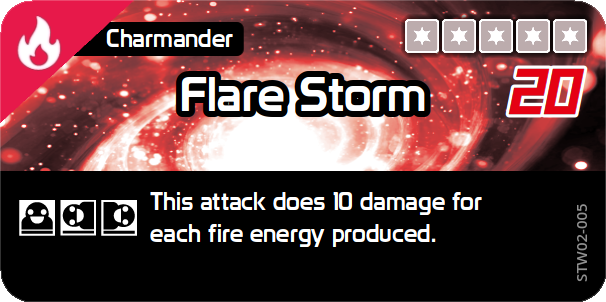
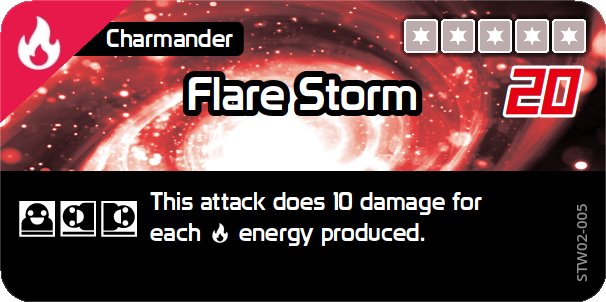
symbols

diff --git a/database/text/Plakoro.md b/database/text/Plakoro.md
@@ -22,13 +22,13 @@ For type reference in energy, I'll be using TCG nomenclature, with _Y_ for flyin
 
 ## Orientations
 
-| Orientation |                                                                                                          Symbol                                                                                                          |
-| :---------: | :----------------------------------------------------------------------------------------------------------------------------------------------------------------------------------------------------------------------: |
-|  Standing   |                                                         ![Standing](https://bandai-hobby.net/site/pokemon/plakoro/images/products/direction_icon/standing.webp)                                                          |
-|  Handstand  |                                                        ![Handstand](https://bandai-hobby.net/site/pokemon/plakoro/images/products/direction_icon/handstand.webp)                                                         |
-|    Back     |                                                             ![Back](https://bandai-hobby.net/site/pokemon/plakoro/images/products/direction_icon/back.webp)                                                              |
-|    Down     |                                                             ![Down](https://bandai-hobby.net/site/pokemon/plakoro/images/products/direction_icon/down.webp)                                                              |
-|  Sideways   | ![Sideways01](https://bandai-hobby.net/site/pokemon/plakoro/images/products/direction_icon/landscape01.webp)![Sideways02](https://bandai-hobby.net/site/pokemon/plakoro/images/products/direction_icon/landscape02.webp) |
+| Orientation |   Tag    |                                                                                                          Symbol                                                                                                          |
+| :---------: | :------: | :----------------------------------------------------------------------------------------------------------------------------------------------------------------------------------------------------------------------: |
+|  Standing   |   {st}   |                                                         ![Standing](https://bandai-hobby.net/site/pokemon/plakoro/images/products/direction_icon/standing.webp)                                                          |
+|  Handstand  |   {hs}   |                                                        ![Handstand](https://bandai-hobby.net/site/pokemon/plakoro/images/products/direction_icon/handstand.webp)                                                         |
+|    Back     |   {ba}   |                                                             ![Back](https://bandai-hobby.net/site/pokemon/plakoro/images/products/direction_icon/back.webp)                                                              |
+|    Down     |   {do}   |                                                             ![Down](https://bandai-hobby.net/site/pokemon/plakoro/images/products/direction_icon/down.webp)                                                              |
+|  Sideways   | {s1}{s2} | ![Sideways01](https://bandai-hobby.net/site/pokemon/plakoro/images/products/direction_icon/landscape01.webp)![Sideways02](https://bandai-hobby.net/site/pokemon/plakoro/images/products/direction_icon/landscape02.webp) |
 
 ## CharaCard
 
@@ -403,20 +403,20 @@ For type reference in energy, I'll be using TCG nomenclature, with _Y_ for flyin
 
 #### Flare Storm
 
-| Name      | Flare Storm                                               |
-| --------- | --------------------------------------------------------- |
-| Japanese  | フレアストーム                                            |
-| Type      | Fire                                                      |
-| Code      | STW02-005                                                 |
-| Pokémon   | Charmander                                                |
-| Energy    | {C}{C}{C}{C}{C}                                           |
-| Damage    | 20                                                        |
-| Effect    |                                                           |
-| Standing  | This attack does 10 damage for each fire energy produced. |
-| Handstand |                                                           |
-| Back      |                                                           |
-| Down      |                                                           |
-| Sideways  | This attack does 10 damage for each fire energy produced. |
+| Name      | Flare Storm                                              |
+| --------- | -------------------------------------------------------- |
+| Japanese  | フレアストーム                                           |
+| Type      | Fire                                                     |
+| Code      | STW02-005                                                |
+| Pokémon   | Charmander                                               |
+| Energy    | {C}{C}{C}{C}{C}                                          |
+| Damage    | 20                                                       |
+| Effect    |                                                          |
+| Standing  | This attack does 10 damage for each {F} energy produced. |
+| Handstand |                                                          |
+| Back      |                                                          |
+| Down      |                                                          |
+| Sideways  | This attack does 10 damage for each {F} energy produced. |
 
 ![Flare Storm](https://bandai-hobby.net/site/pokemon/plakoro/images/products/st02/01/img_wazacard05.webp)
 
@@ -1842,20 +1842,20 @@ For type reference in energy, I'll be using TCG nomenclature, with _Y_ for flyin
 
 #### Gyro Ball
 
-| Name      | Gyro Ball                                                                                                    |
-| --------- | ------------------------------------------------------------------------------------------------------------ |
-| Japanese  | ジャイロボール                                                                                               |
-| Type      | Steel                                                                                                        |
-| Code      | EBW01-045                                                                                                    |
-| Pokémon   | Onix                                                                                                         |
-| Energy    | {M}{C}{C}                                                                                                    |
-| Damage    | 20                                                                                                           |
-| Effect    |                                                                                                              |
-| Standing  | Your opponet also rolls their Charakoro. If a [Handstand], [Down] comes up, this attack does 60 more damage. |
-| Handstand |                                                                                                              |
-| Back      | Your opponet also rolls their Charakoro. If a [Handstand], [Down] comes up, this attack does 60 more damage. |
-| Down      |                                                                                                              |
-| Sideways  | Your opponet also rolls their Charakoro. If a [Handstand], [Down] comes up, this attack does 60 more damage. |
+| Name      | Gyro Ball                                                                               |
+| --------- | --------------------------------------------------------------------------------------- |
+| Japanese  | ジャイロボール                                                                          |
+| Type      | Steel                                                                                   |
+| Code      | EBW01-045                                                                               |
+| Pokémon   | Onix                                                                                    |
+| Energy    | {M}{C}{C}                                                                               |
+| Damage    | 20                                                                                      |
+| Effect    |                                                                                         |
+| Standing  | Your opponent also rolls their Charakoro. On {hs}{do}, this attack does 60 more damage. |
+| Handstand |                                                                                         |
+| Back      | Your opponent also rolls their Charakoro. On {hs}{do}, this attack does 60 more damage. |
+| Down      |                                                                                         |
+| Sideways  | Your opponent also rolls their Charakoro. On {hs}{do}, this attack does 60 more damage. |
 
 ![Gyro Ball](https://bandai-hobby.net/site/pokemon/plakoro/images/products/eb01/02/img_wazacard05.webp)
 
@@ -2051,20 +2051,20 @@ For type reference in energy, I'll be using TCG nomenclature, with _Y_ for flyin
 
 #### Venom Slip ?
 
-| Name      | Venom Slip ?                                                                                                                |
-| --------- | --------------------------------------------------------------------------------------------------------------------------- |
-| Japanese  | ベノムスリップ                                                                                                              |
-| Type      | Dark                                                                                                                        |
-| Code      | EBW01-057                                                                                                                   |
-| Pokémon   | Grimer                                                                                                                      |
-| Energy    | {D}{D}                                                                                                                      |
-| Damage    | 20                                                                                                                          |
-| Effect    |                                                                                                                             |
-| Standing  | Your opponent also rolls their Charakoro. If a [Handstand], [Down] or [Sideways] comes up, this attack does 20 more damage. |
-| Handstand |                                                                                                                             |
-| Back      | Your opponent also rolls their Charakoro. If a [Handstand], [Down] or [Sideways] comes up, this attack does 20 more damage. |
-| Down      |                                                                                                                             |
-| Sideways  | Your opponent also rolls their Charakoro. If a [Handstand], [Down] or [Sideways] comes up, this attack does 20 more damage. |
+| Name      | Venom Slip ?                                                                                    |
+| --------- | ----------------------------------------------------------------------------------------------- |
+| Japanese  | ベノムスリップ                                                                                  |
+| Type      | Dark                                                                                            |
+| Code      | EBW01-057                                                                                       |
+| Pokémon   | Grimer                                                                                          |
+| Energy    | {D}{D}                                                                                          |
+| Damage    | 20                                                                                              |
+| Effect    |                                                                                                 |
+| Standing  | Your opponent also rolls their Charakoro. On {hs}{do}{s1}{s2}, this attack does 20 more damage. |
+| Handstand |                                                                                                 |
+| Back      | Your opponent also rolls their Charakoro. On {hs}{do}{s1}{s2}, this attack does 20 more damage. |
+| Down      |                                                                                                 |
+| Sideways  | Your opponent also rolls their Charakoro. On {hs}{do}{s1}{s2}, this attack does 20 more damage. |
 
 ![Venom Slip](https://bandai-hobby.net/site/pokemon/plakoro/images/products/eb01/01/img_wazacard07.webp)
 
